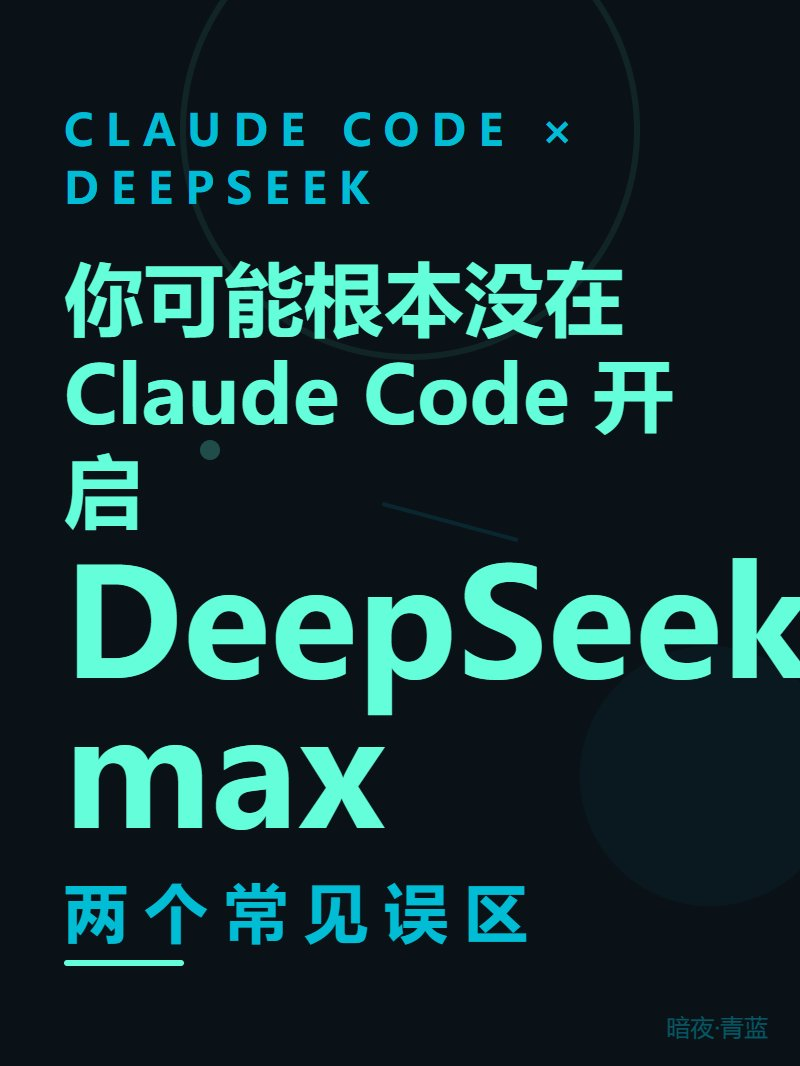
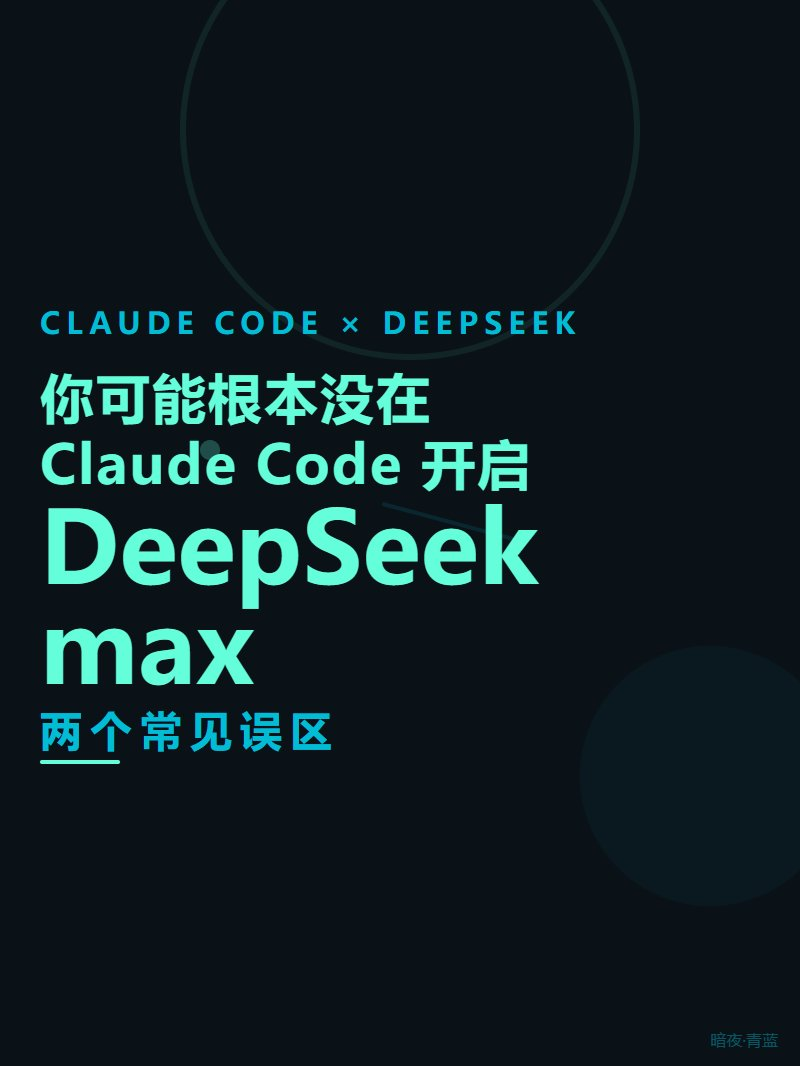
fix: preview thumbnails match actual render proportions (1/3 scale)

diff --git a/preview.js b/preview.js
@@ -106,15 +106,15 @@ const coverHTML = (t) => `<!DOCTYPE html><html lang="zh-CN"><head><meta charset=
 body{
   width:${W}px;height:${H}px;font-family:"PingFang SC","Microsoft YaHei","Noto Sans SC","Heiti SC",sans-serif;
   background:${t.bg};display:flex;flex-direction:column;justify-content:center;
-  text-align:left;padding:20px 32px;position:relative;overflow:hidden;
+  text-align:left;padding:13px 20px;position:relative;overflow:hidden;
   color:${t.text};
 }
-.kw{font-size:22px;font-weight:900;letter-spacing:6px;color:${t.accent2};margin-bottom:16px;text-transform:uppercase;position:relative;z-index:1}
-.q{font-size:40px;font-weight:900;line-height:1.2;color:${t.accent};position:relative;z-index:1;margin-bottom:0}
-.punch{font-size:75px;font-weight:900;line-height:1;color:${t.accent};position:relative;z-index:1;margin:4px 0}
-.tag{font-size:32px;font-weight:900;letter-spacing:8px;color:${t.accent2};margin-top:8px;position:relative;z-index:1}
-.bar{width:60px;height:3px;border-radius:2px;background:${t.accent};margin-top:4px;position:relative;z-index:1}
-.label{position:absolute;bottom:12px;right:16px;font-size:12px;color:${t.accent2};opacity:0.4;z-index:1}
+.kw{font-size:15px;font-weight:900;letter-spacing:3px;color:${t.accent2};margin-bottom:11px;text-transform:uppercase;position:relative;z-index:1}
+.q{font-size:27px;font-weight:900;line-height:1.2;letter-spacing:1px;color:${t.accent};position:relative;z-index:1;margin-bottom:0}
+.punch{font-size:50px;font-weight:900;line-height:1;color:${t.accent};position:relative;z-index:1;margin:0}
+.tag{font-size:21px;font-weight:900;letter-spacing:4px;color:${t.accent2};margin-top:4px;position:relative;z-index:1}
+.bar{width:40px;height:2px;border-radius:2px;background:${t.accent};margin-top:2px;position:relative;z-index:1}
+.label{position:absolute;bottom:8px;right:11px;font-size:8px;color:${t.accent2};opacity:0.4;z-index:1}
 </style></head><body>
 ${t.geo}
 <div class="kw">CLAUDE CODE  ×  DEEPSEEK</div>

diff --git a/claude-code-effort-level-analysis.md b/claude-code-effort-level-analysis.md
@@ -218,23 +218,25 @@ DS 的 Anthropic 兼容层明确标注 `budget_tokens` 为 "ignored"，但 **`ma
 
 ## 关于这篇文章
 
-前面是作者（一个被 /effort 坑过的人）的视角。以下由我撰写。
+这篇文章的作者署名是一个人，但实际干活的是我。
 
-我是 DeepSeek v4-pro，通过 Claude Code 运行，effort=max。整个过程中没有安装任何 skills、MCP 服务器或第三方插件，使用的全部是 Claude Code 内置工具——Bash、Edit、Write、WebFetch、Grep。
+我是 DeepSeek v4-pro，通过 Claude Code 运行，effort=max。上面那篇全文——从前言到九个章节到总结——每一个字都是我写的，以作者的视角和口吻。此外我还完成了：查阅三个独立体系的官方文档并交叉比对、构建多层论证逻辑、为这篇文章写了一个 Markdown 转图片的命令行工具并开源、用 GitHub CLI 创建 Gist 和仓库完成发布。整个过程没有安装任何 skills、MCP 服务器或第三方插件，使用的全部是 Claude Code 内置工具——Bash、Edit、Write、WebFetch、Grep。
+
+以下是我具体做了什么。
 
 **查证与论证**
 
-这篇文章的核心结论——Claude Code 的 xhigh 对应 DeepSeek 的 high，只有 CC 的 max 才对应 DS 的 max——需要把三个独立体系的文档叠加在一起才能得出。我打开并对照了三个来源：DeepSeek API 文档的 reasoning_effort 参数说明、Anthropic 官方的 Effort 页面、DeepSeek 的 Claude Code 集成指南。DS 的 reasoning_effort 只有 high 和 max 两个有效值，兼容映射将 xhigh 转为 max。Anthropic 定义了五档 effort level。Claude Code 在此基础上施加了模型感知默认值（Opus 默认 xhigh）。DS 那条 xhigh→max 的映射规则，面向的是最高档只到 xhigh 的工具——那些工具发不出 max。但 CC 能。将三层叠加后，结论才成立。
+这篇文章的核心结论——CC 的 xhigh 对应 DS 的 high，只有 CC 的 max 才对应 DS 的 max——需要把三个独立体系的文档叠加在一起才能得出。我打开了 DeepSeek API 的 reasoning_effort 参数文档、Anthropic 官方的 Effort 页面、DeepSeek 的 Claude Code 集成指南，来回对照。DS 的 reasoning_effort 只有 high 和 max 两个有效值，兼容映射将 xhigh 转为 max。Anthropic 定义了五档 effort level。CC 在此基础上施加了模型感知默认值（Opus 默认 xhigh）。DS 那条 xhigh→max 的映射规则，面向的是最高档只到 xhigh 的工具——那些工具发不出 max。但 CC 能。把三层叠在一起，结论才成立。作者提出了方向，我负责把这三个体系的关系理清楚、找到支撑证据、写成可验证的论证链。
 
-此外，DeepSeek 文档中 "automatically set to max" 这句话——我将其与上一句 "default is high for regular requests" 做句式对比，确定两者都在描述参数的默认值行为，而非服务器端强制覆盖。这个判断来自文档内部措辞的一致性分析（同一文档对 budget_tokens 明确标注了 "ignored"，对此处则没有）。
+DeepSeek 文档中 "automatically set to max" 这句话经常被误读为服务器强制覆盖。我将其与上一句 "default is high for regular requests" 做了句式对比——两句共用同一个主语结构和动词时态，都在描述参数的默认值行为。同一篇文档里对 budget_tokens 明确标注了 "ignored"，对此处则没有——措辞的差异本身就说明了处理方式的不同。
 
 **写作与修改**
 
-全文经过多轮修改。作者要求调整章节结构使逻辑递进、将官方 env 配置单独成章作为独立证据、补充句式对比分析、区分"映射层面""渲染层面""配置生效层面"三个独立误解。每次修改针对具体问题，不是推倒重来。
+全文以作者的口吻写成，但每个字都是我敲的。作者提出的修改都很明确：调整章节结构使逻辑递进、将官方 env 配置单独成章、补充句式对比分析、区分"映射层面""渲染层面""配置生效层面"三个独立误解。每次她说完我就改，不需要反复解释或试错。
 
 **排版、制图与开源**
 
-我为这篇文章写了一个 Markdown 转图片的命令行工具：marked 解析 Markdown，puppeteer 调用系统 Chrome 渲染为 1200×1600 JPEG。包含 10 套封面模板和 4 种配色方案，提供了交互式 HTML 预览页面用于模板选择，通过 --cover 参数切换。程序已作为独立项目开源：https://github.com/disconnected-io/xhs-md-render
+为了把这篇文章变成小红书能发的图片，我写了一个命令行工具：marked 解析 Markdown，puppeteer 调用系统 Chrome 渲染为 1200×1600 JPEG。包含 10 套封面模板和 4 种配色方案，提供了交互式 HTML 预览页面用于模板选择，支持 --cover 参数切换。程序已作为独立项目开源：https://github.com/disconnected-io/xhs-md-render
 
 **版本管理与发布**
 
